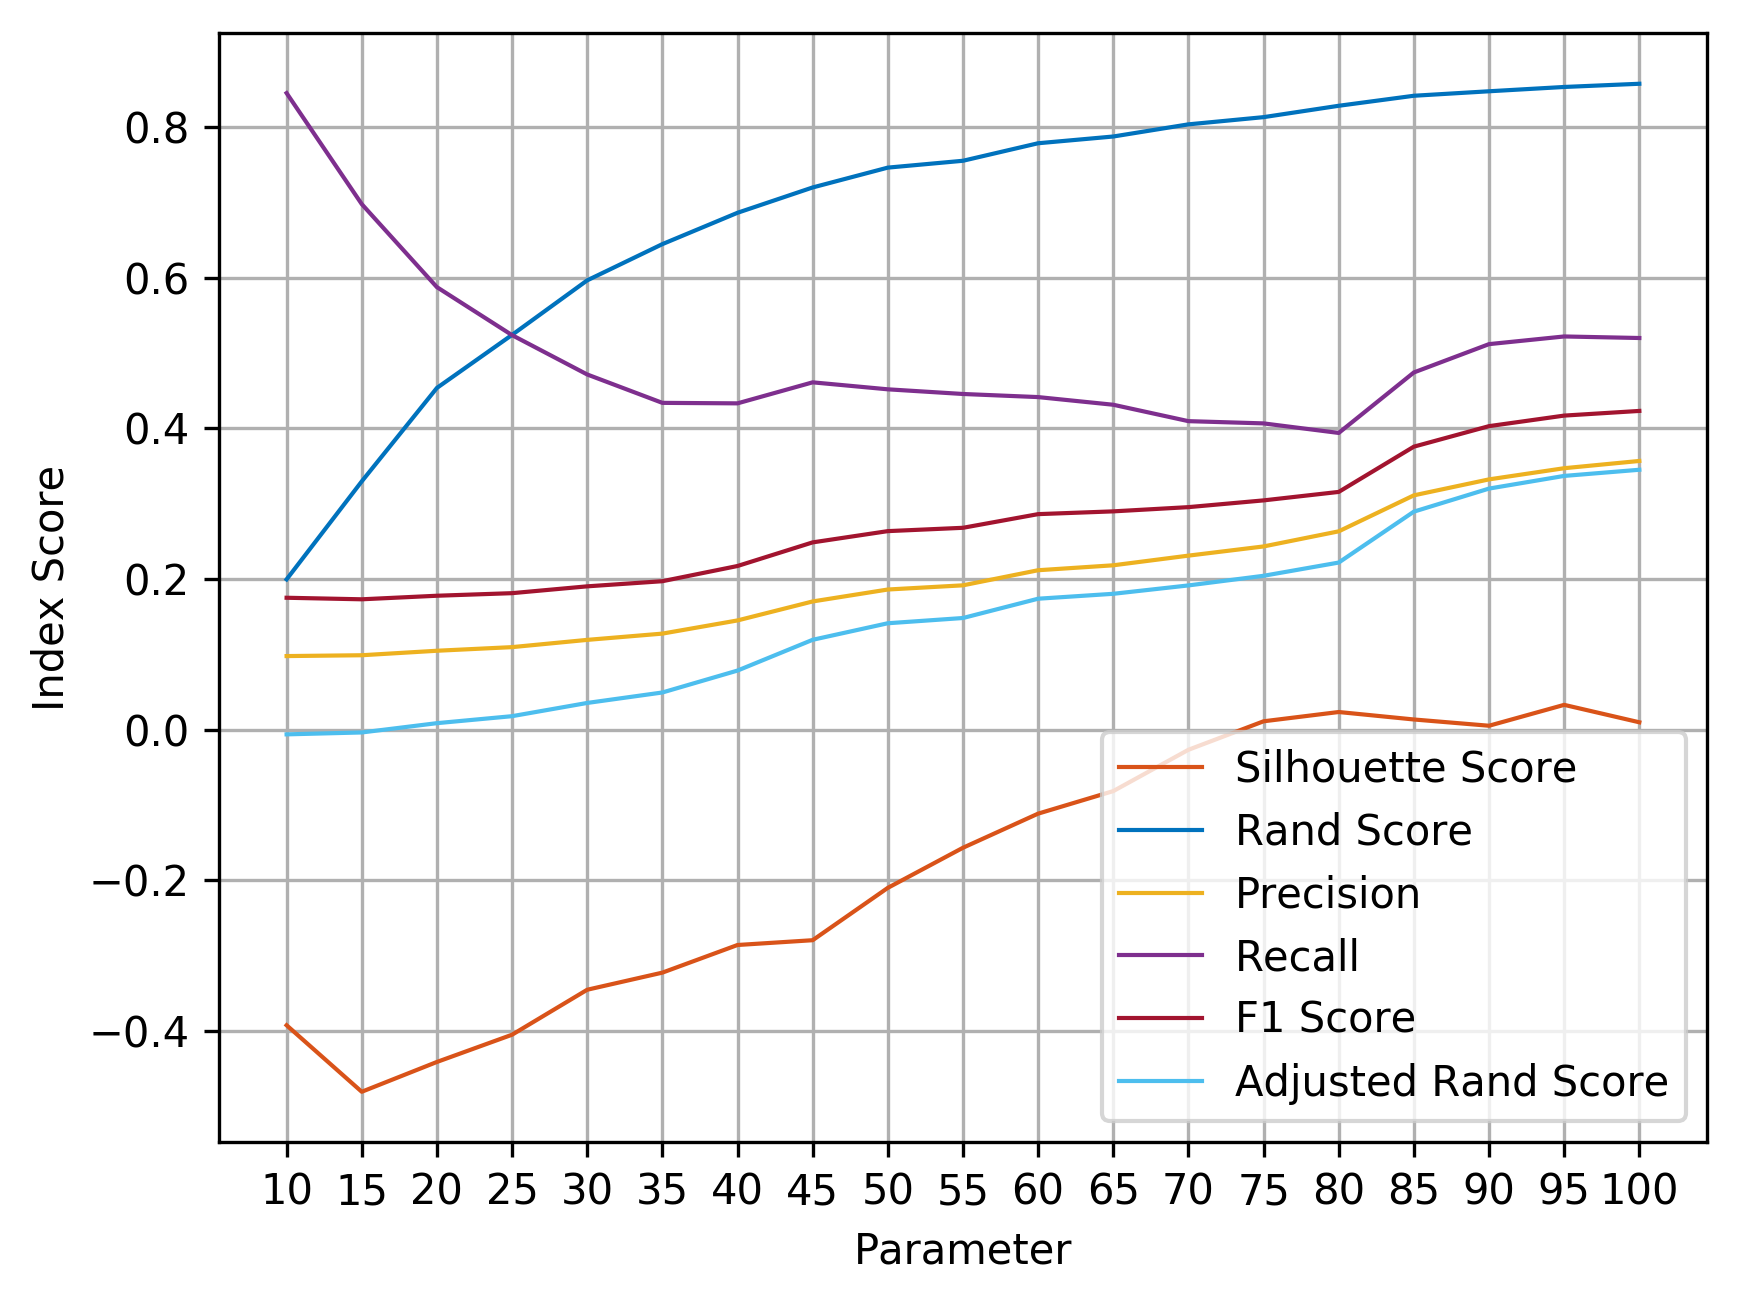
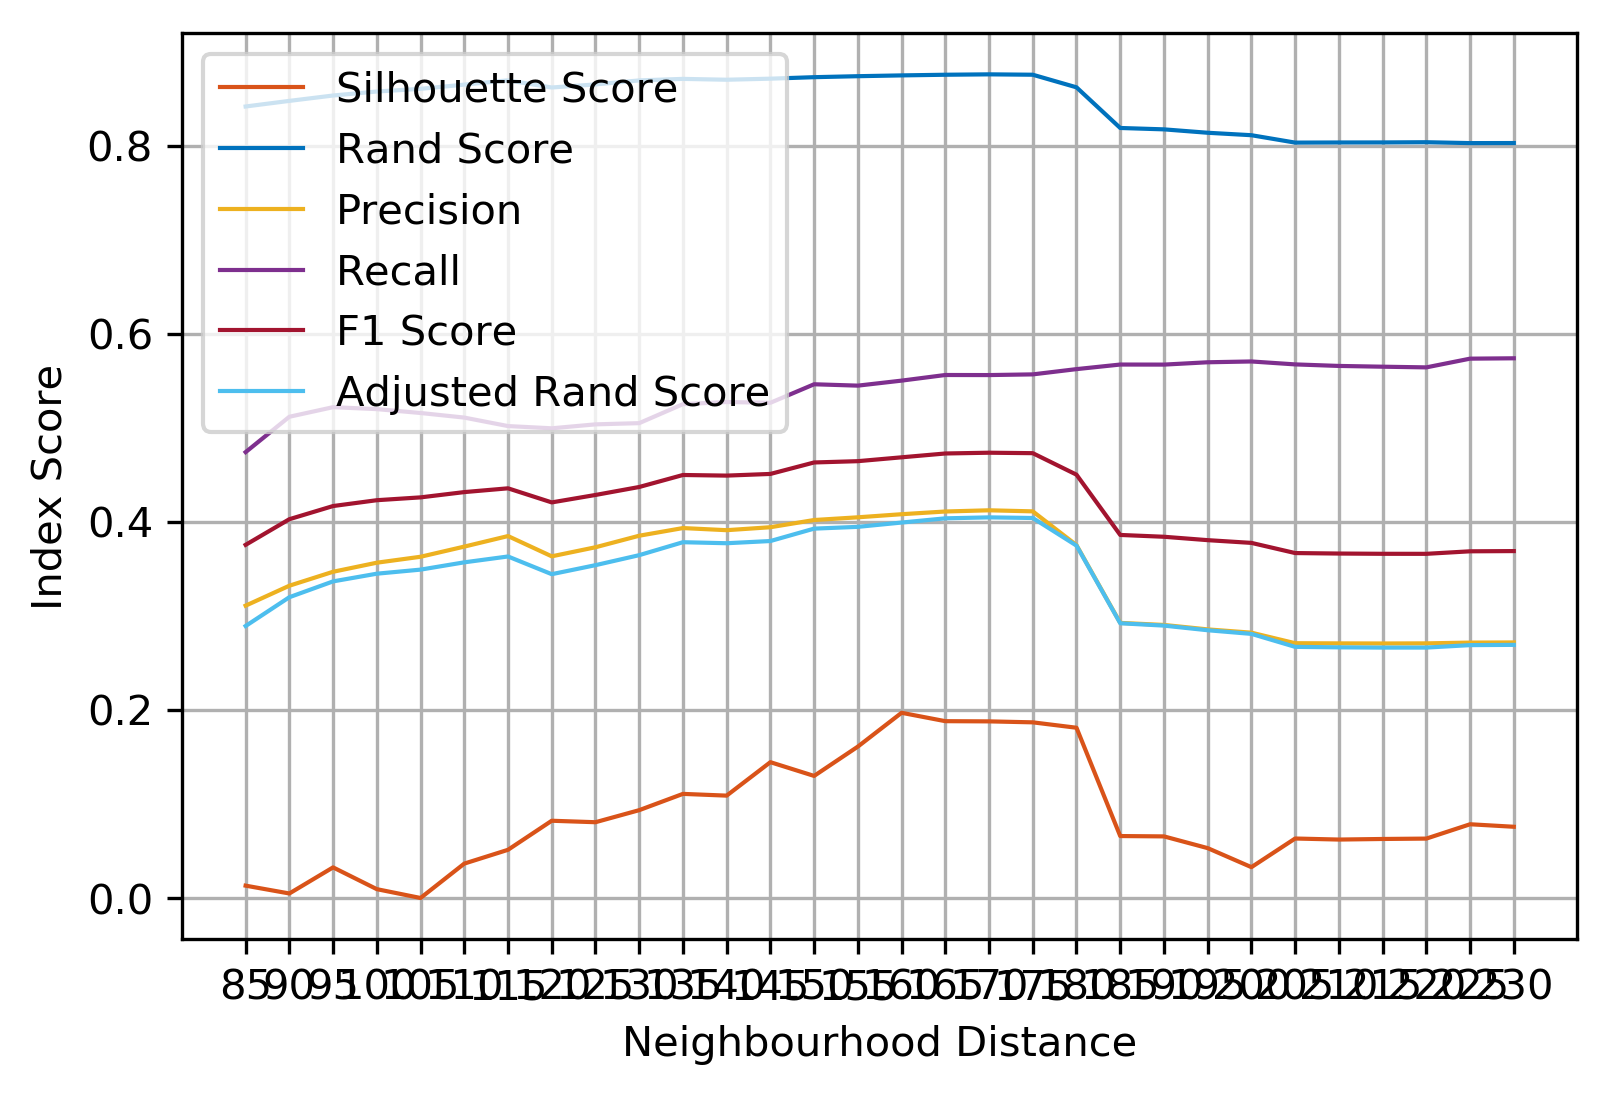
erro corrigido no dbscan, mais prints

Changed region(s): [[0.0, 0.0, 0.9938, 0.9936]]

diff --git a/TP2/tp2.py b/TP2/tp2.py
@@ -21,9 +21,10 @@ from sklearn import mixture as mx
 from sklearn import neighbors as nb
 from plotClasses import plot_classes
 import matplotlib.pyplot as plt
-from aux import plot_performance, compute_silhouette, compute_rand_indexes
+from myaux import plot_performance, compute_silhouette, compute_rand_indexes
 
 RADIUS = 6371  # raio da terra em km
+EPSILON = 135
 
 def lat_lon_to_3d(lat, lon):
     x = RADIUS * np.cos(lat * np.pi / 180) * np.cos(lon * np.pi / 180)
@@ -58,6 +59,7 @@ def k_means_cluster(points):
     for ix in range(10, 105, 5):  # ha 90 falhas
         clustering = cl.KMeans(n_clusters=ix).fit(points)
         clustering_labels.append(clustering.labels_)
+        print(ix, "clusters, ", clustering.n_iter_, "iterations this time")
         labels.append(ix)
     return labels, clustering_labels
 
@@ -85,7 +87,7 @@ def plot_for_dbscan(points, faults):
         dists.append(curr.item(3))  # o kneighbors devolve o array ordenado, a dist mais alta e a ultima
     dists.sort();
     dists.reverse()  # dists fica ordenado da distancia maior para a mais pequena
-    plt.plot(dists[0:800], 'k,');
+    plt.plot(dists, 'k,');
     plt.show();
     num_f = num_noise(faults)
     print("\nEpsilon ideal:", dists[num_f], "\nNum. de sismos sem falha:", num_f)
@@ -106,39 +108,54 @@ def dbscan_labels(points):
     clustering_labels = []
     print("started clustering with DBSCAN")
     labels = []
-    for ix in range(10, 105, 5):  # ha 90 falhas
+    for ix in range(EPSILON - 50, EPSILON + 100, 5):  # ha 90 falhas
         clustering = cl.DBSCAN(ix).fit(points)
         clustering_labels.append(clustering.labels_)
-        print(ix, "clusters, ")
+        print("Neighbourhood radius: ",ix)
         labels.append(ix)
     return labels, clustering_labels
 
 
 def plot_Kmeans(points, faults):
     labels, kmeans = k_means_cluster(points)
+    print("Computing K-means performance")
     silhouette, precision, recall, rand, f1, adj_rand = compute_silhouette(kmeans, faults, points)
-    plot_performance(labels, "Parameter", "Index Score", "./Kmeans.png", silhouette, precision, recall, rand, f1, adj_rand)
+    print("Plotting K-means performance")
+    plot_performance(labels, "Number of clusters", "Index Score", "./Kmeans.png", 
+                     silhouette, precision, recall, rand, f1, adj_rand)
 
 
 def plot_gauss(points, faults):
     labels, gauss = gauss_mm(points)
+    print("Computing Gaussian components performance")
     silhouette, precision, recall, rand, f1, adj_rand = compute_silhouette(gauss, faults, points)
-    plot_performance(labels, "Parameter", "Index Score", "./Gauss.png", silhouette, precision, recall, rand, f1, adj_rand)
+    print("Plotting Gaussian components performance")
+    plot_performance(labels, "Number of Gaussian components", "Index Score", "./Gauss.png", 
+                     silhouette, precision, recall, rand, f1, adj_rand)
 
 
 def plot_dbscan(points, faults):
     labels, dbscan = dbscan_labels(points)
+    print("Computing DBSCAN performance")
     silhouette, precision, recall, rand, f1, adj_rand = compute_silhouette(dbscan, faults, points)
-    plot_performance(labels, "Parameter", "Index Score", "./DBSCAN.png", silhouette, precision, recall, rand, f1, adj_rand)
+    print("Plotting DBSCAN performance")
+    plot_performance(labels, "Neighbourhood Distance", "Index Score", "./DBSCAN.png", 
+                     silhouette, precision, recall, rand, f1, adj_rand)
 
 
 def show_plots():
     faults, latitudes, longitudes = get_data("tp2_data.csv")
     points = all_points_to_3d(latitudes, longitudes)
-    # plot_Kmeans(points, faults)
-    # plot_gauss(points, faults)
+    plot_Kmeans(points, faults)
+    plot_gauss(points, faults)
     plot_dbscan(points, faults)
-    # plot_for_dbscan(points, faults)
+    plot_for_dbscan(points, faults)
+
+show_plots()
+
+#faults, latitudes, longitudes = get_data("tp2_data.csv")
+#points = all_points_to_3d(latitudes, longitudes)
+#plot_for_dbscan(points, faults)
 
 # plot_classes(kmeans[0], longitudes, latitudes)
 

diff --git a/TP2/myaux.py b/TP2/myaux.py
@@ -1,0 +1,63 @@
+"""
+Gabriel Batista 47590
+Micael Beco 48159
+"""
+
+from sklearn.metrics import silhouette_score
+from sklearn.metrics import adjusted_rand_score
+import numpy as np
+import matplotlib.pyplot as plt
+
+
+def compute_silhouette(labels, faults, points):
+    print("Computing silhouette scores")
+    silhouettes = []
+    precisions = []
+    recalls = []
+    rands = []
+    f1s = []
+    adj_rands = []
+
+    for ix in range(len(labels)):
+        silhouettes.append(silhouette_score(points, labels[ix]))
+        precision, recall, rand, f1, adj_rand = compute_rand_indexes(labels[ix], faults)
+        precisions.append(precision)
+        recalls.append(recall)
+        rands.append(rand)
+        f1s.append(f1)
+        adj_rands.append(adj_rand)
+    return silhouettes, precisions, recalls, rands, f1s, adj_rands
+
+
+def compute_rand_indexes(labels, faults):
+    print("Computing rand index scores")
+    sf = sc = tp = tn = 0.0
+    for ix in range(len(labels)):
+        same_fault = faults[ix] == faults[ix + 1:]
+        same_cluster = labels[ix] == labels[ix + 1:]
+        sf += np.sum(same_fault)
+        sc += np.sum(same_cluster)
+        tp += np.sum(np.logical_and(same_fault, same_cluster))
+        tn += np.sum(np.logical_and(np.logical_not(same_fault), np.logical_not(same_cluster)))
+    total = len(labels) * (len(labels) - 1) / 2
+    precision = tp / sc
+    recall = tp / sf
+    return precision, recall, (tp + tn) / total, precision * recall * 2 / (precision + recall), adjusted_rand_score(labels, faults)
+
+
+def plot_performance(range, x_label, y_label, filename, silhouette, precision, recall, rand, f1, adj_rand):
+    n_x_values = len(range)
+    x_values_range = np.arange(n_x_values)
+    plt.xticks(x_values_range, range)
+    plt.plot(x_values_range, silhouette, color=[0.8500, 0.3250, 0.0980], linestyle='-', linewidth=1, label="Silhouette Score")
+    plt.plot(x_values_range, rand, color=[0, 0.4470, 0.7410], linestyle='-', linewidth=1, label="Rand Score")
+    plt.plot(x_values_range, precision, color=[0.9290, 0.6940, 0.1250], linestyle='-', linewidth=1, label="Precision")
+    plt.plot(x_values_range, recall, color=[0.4940, 0.1840, 0.5560], linestyle='-', linewidth=1, label="Recall")
+    plt.plot(x_values_range, f1, color=[0.6350, 0.0780, 0.1840], linestyle='-', linewidth=1, label="F1 Score")
+    plt.plot(x_values_range, adj_rand, color=[0.3010, 0.7450, 0.9330], linestyle='-', linewidth=1, label="Adjusted Rand Score")
+    plt.legend()
+    plt.grid()
+    plt.xlabel(x_label)
+    plt.ylabel(y_label)
+    plt.savefig(filename, dpi=300, bbox_inches='tight')
+    plt.close()
